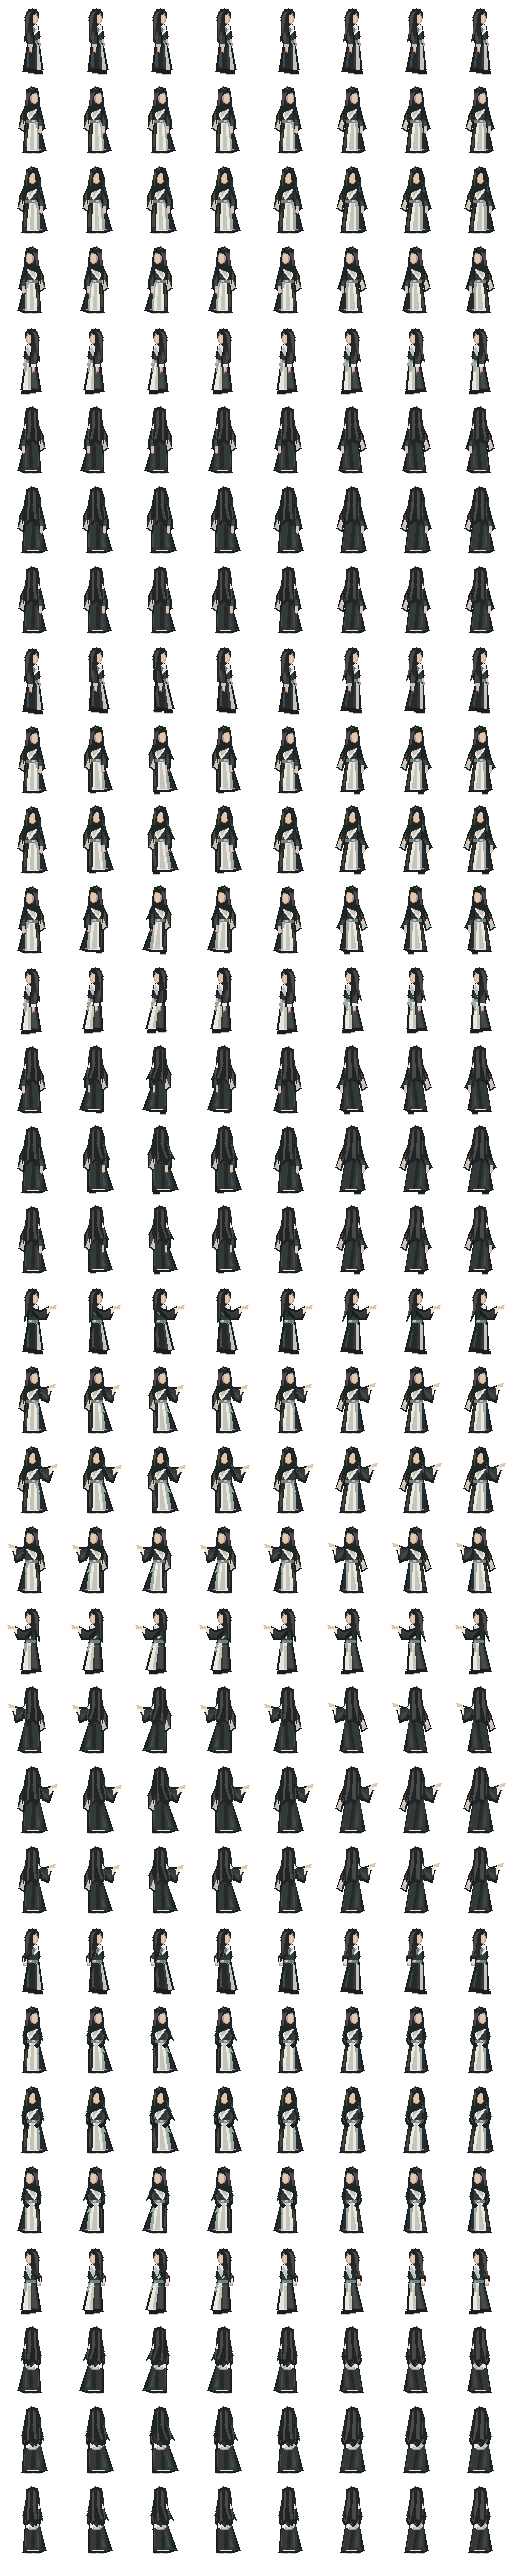
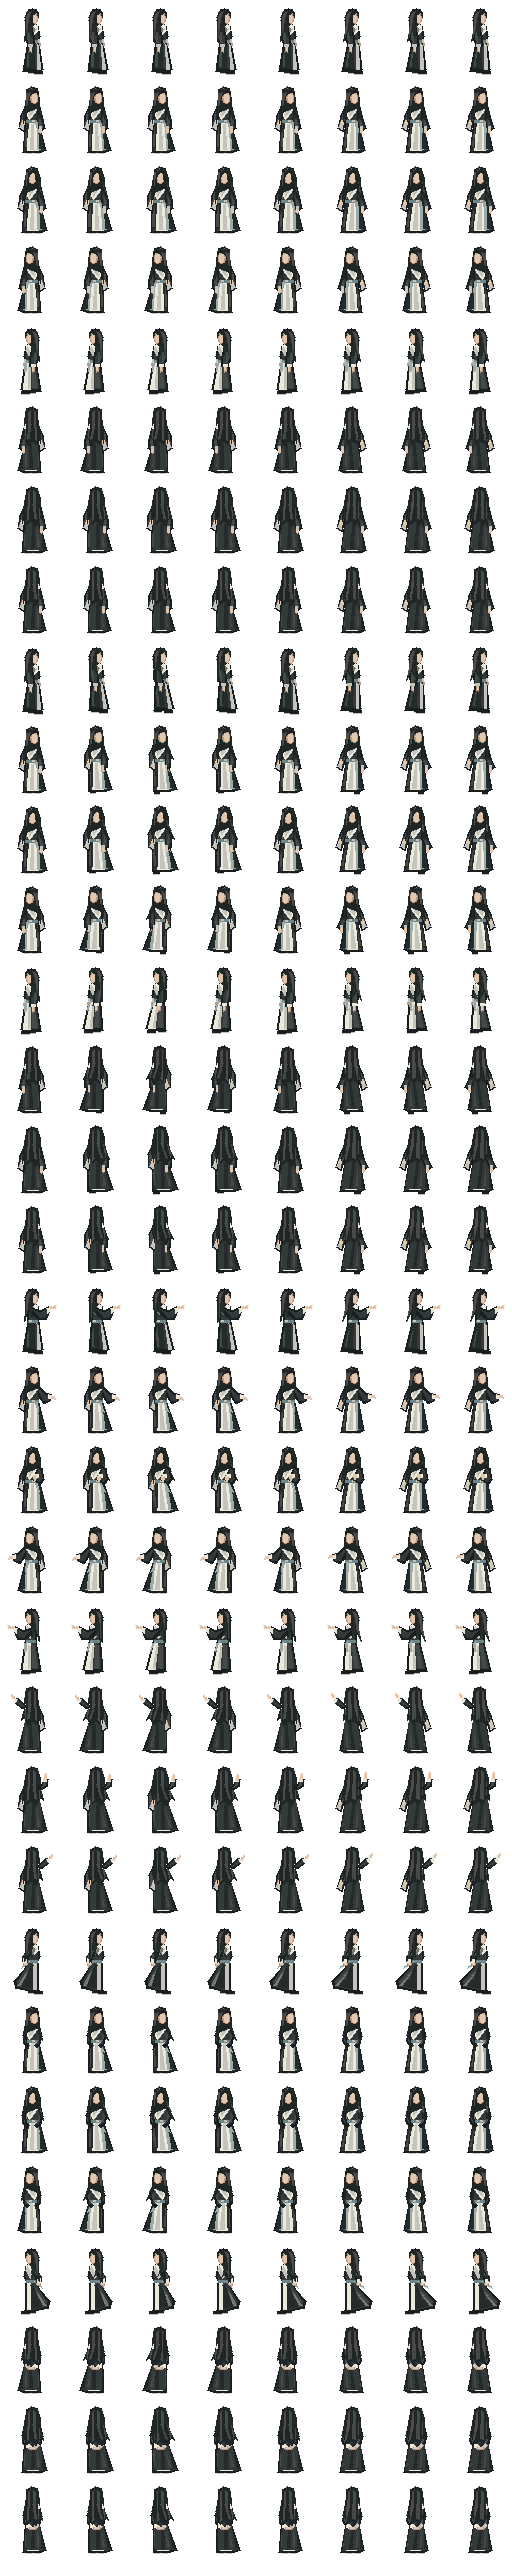
fix: follow mouse while casting and animate downwind robe tails

diff --git a/art/preview_swordsman.py b/art/preview_swordsman.py
@@ -38,7 +38,14 @@ for state in range(4):
         heights=[]
         for direction in range(5):
             head=atlas.crop((frame*64,(state*8+direction)*80,(frame+1)*64,(state*8+direction)*80+24))
-            ys=[y for y in range(24) for x in range(64) if head.getpixel((x,y)) in skin_colors]
+            ys=[y for y in range(24) for x in range(23,41) if head.getpixel((x,y)) in skin_colors]
             heights.append((min(ys),max(ys)))
         assert len(set(heights))==1, ('Face heights differ',state,frame,heights)
+for d in (0,4):
+    cells=[atlas.crop((f*64,(24+d)*80,(f+1)*64,(25+d)*80)) for f in range(8)]
+    if d==4: cells=[im.transpose(Image.Transpose.FLIP_LEFT_RIGHT) for im in cells]
+    fronts=[im.crop((33,44,43,70)).tobytes() for im in cells]
+    backs=[im.crop((8,50,29,70)).tobytes() for im in cells]
+    assert len(set(fronts))==1, 'Flight front robe must stay fitted'
+    assert len(set(backs))>=3, 'Flight rear robe should flutter'
 print('ASSET_CHECK_OK: 32 animated rows, 256 unclipped frames, flight shoes fixed, face heights aligned')
